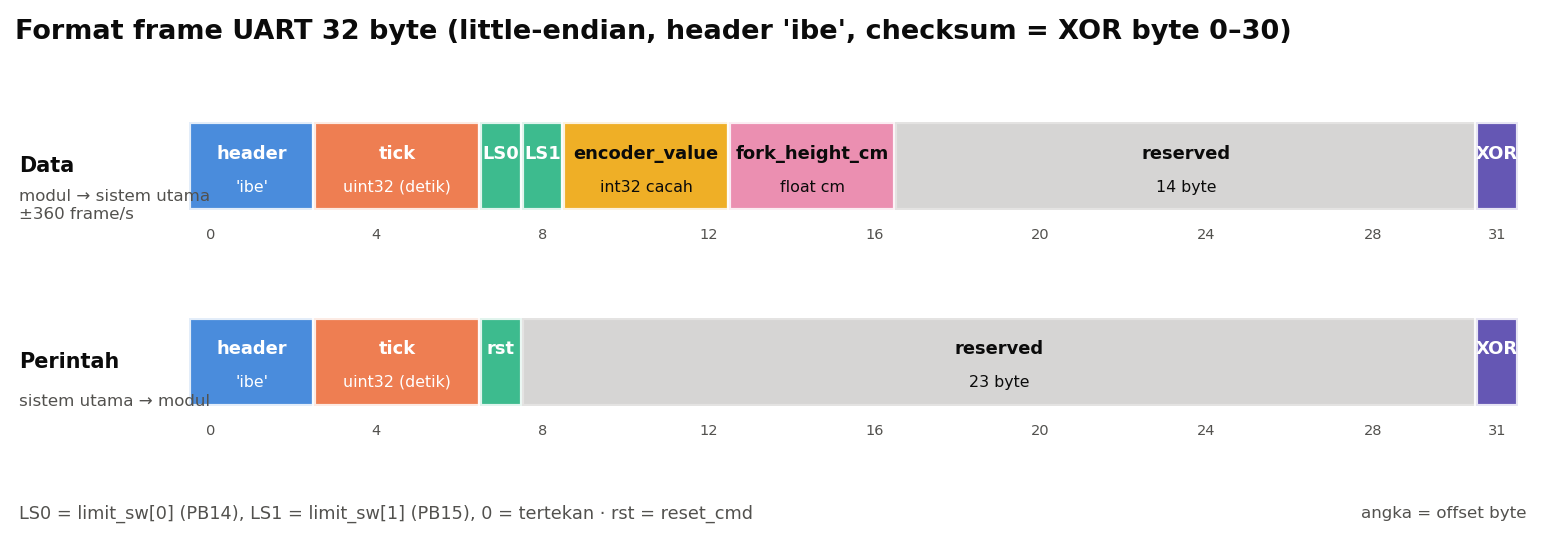
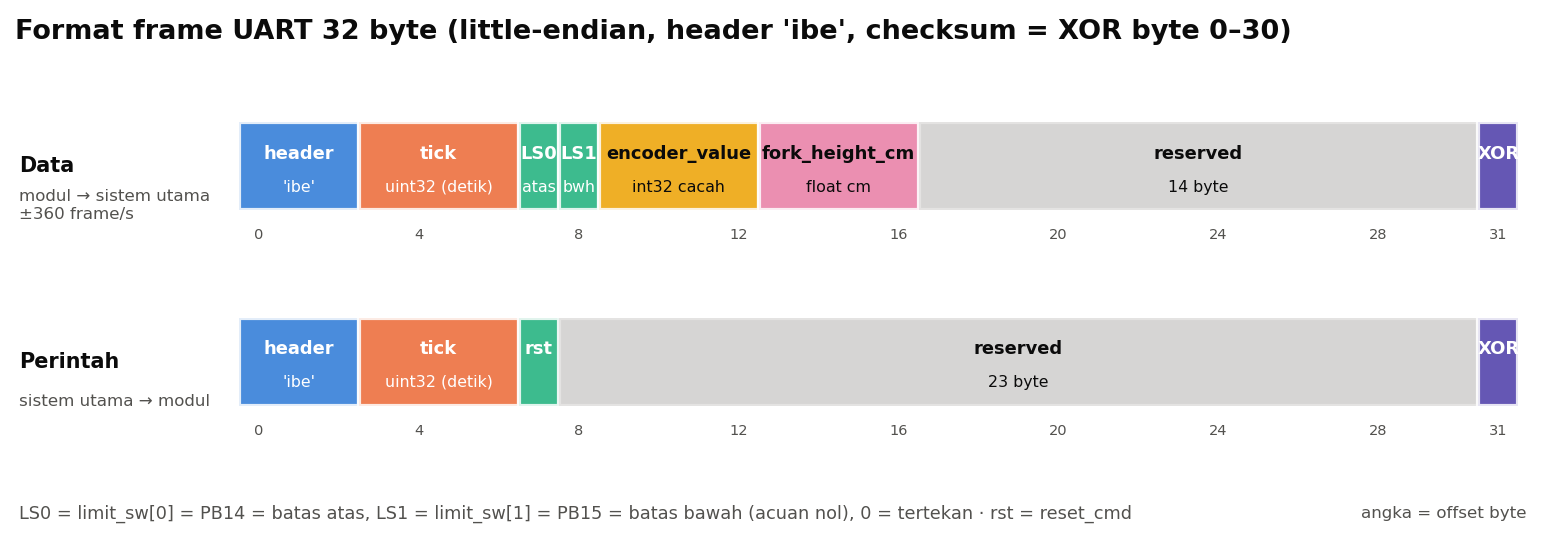
Use current firmware as pin reference: PB14 top limit, PB15 bottom limit

diff --git a/README.md b/README.md
@@ -526,15 +526,15 @@ Jika diameter roda pengukur sebenarnya bukan sekitar 35,5 mm, nilai `ENCODER_MAX
 - Resolusi encoder = 600 PPR × 4 = 2400 count per putaran
 - Filter input TIM1 = 10 (IC1 dan IC2)
 - Counter = 16 bit, diperluas ke int32 lewat `posisi += (int16)(now − last)`
-- Titik nol = Counter di-nol-kan selama `limit_sw[1]` (PB15) bernilai 0
+- Titik nol = Counter di-nol-kan selama limit switch bawah (`limit_sw[1]`, PB15) tertekan
 - Rumus = tinggi [cm] = count × 250 / 53808, count dibatasi 0–53808
 - Resolusi tinggi = 0,00465 cm per count (≈ 0,046 mm)
 - Contoh = 100 cm = 21523 count
 - UART = 115200 bps 8N1, frame 32 byte, header `ibe`, checksum XOR byte 0–30
 - Laju frame data = ±360 frame/s, dikirim terus-menerus (2,78 ms per frame)
-- Limit switch = Aktif rendah (0 = tertekan): `limit_sw[0]` = PB14, `limit_sw[1]` = PB15
+- Limit switch = Aktif rendah (0 = tertekan): `limit_sw[0]` = PB14 = batas atas, `limit_sw[1]` = PB15 = batas bawah
 
-Firmware memakai `limit_sw[1]` (PB15) sebagai acuan nol, sedangkan skematik melabeli PB15 sebagai LS_UP. Pemasangan limit switch atas dan bawah perlu dipastikan sebelum kalibrasi.
+Acuan pin mengikuti firmware yang berlaku: PB14 = limit switch atas, PB15 = limit switch bawah (acuan nol). Label skematik (PB14 = LS_DOWN, PB15 = LS_UP) perlu disesuaikan, dan pemasangan limit switch harus mengikuti firmware sebelum kalibrasi.
 
 ### Format Frame UART
 
